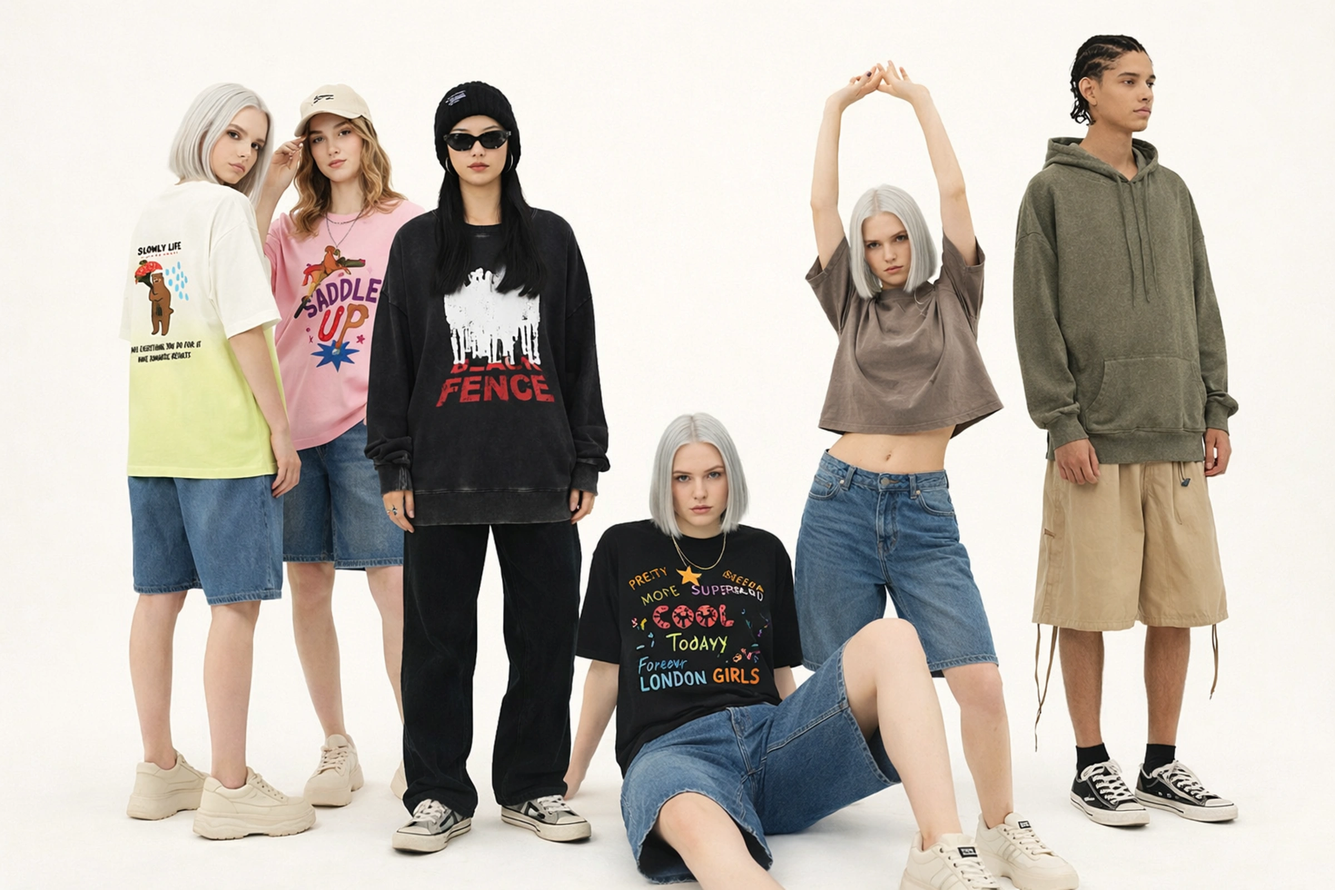
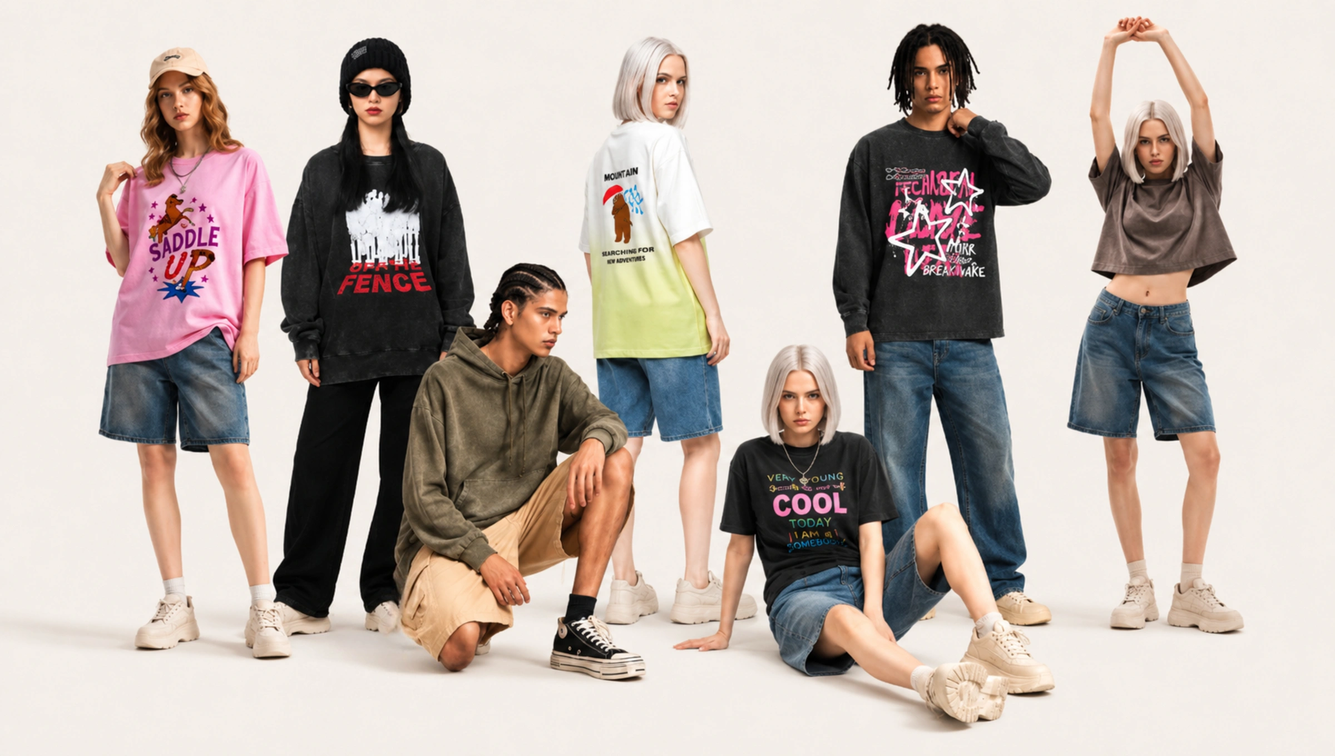
替换hero海报 v3

diff --git a/components/Hero.tsx b/components/Hero.tsx
@@ -23,7 +23,7 @@ export default function Hero() {
       {/* Background Image with Parallax */}
       <motion.div style={{ scale }} className="absolute inset-0">
         <Image
-          src={`${heroImages.background.src}?v=2`}
+          src={`${heroImages.background.src}?v=3`}
           alt={heroImages.background.alt}
           fill
           priority
